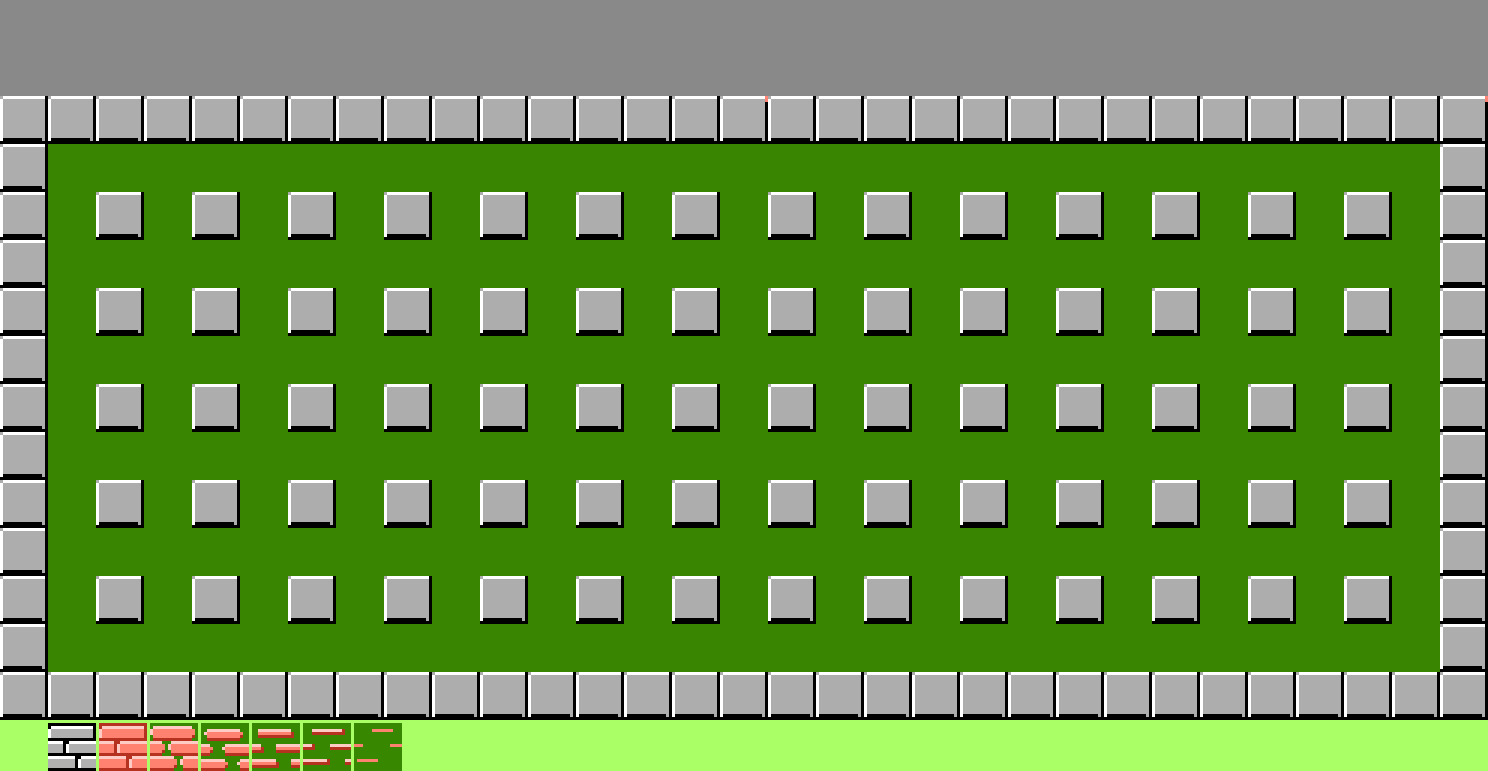
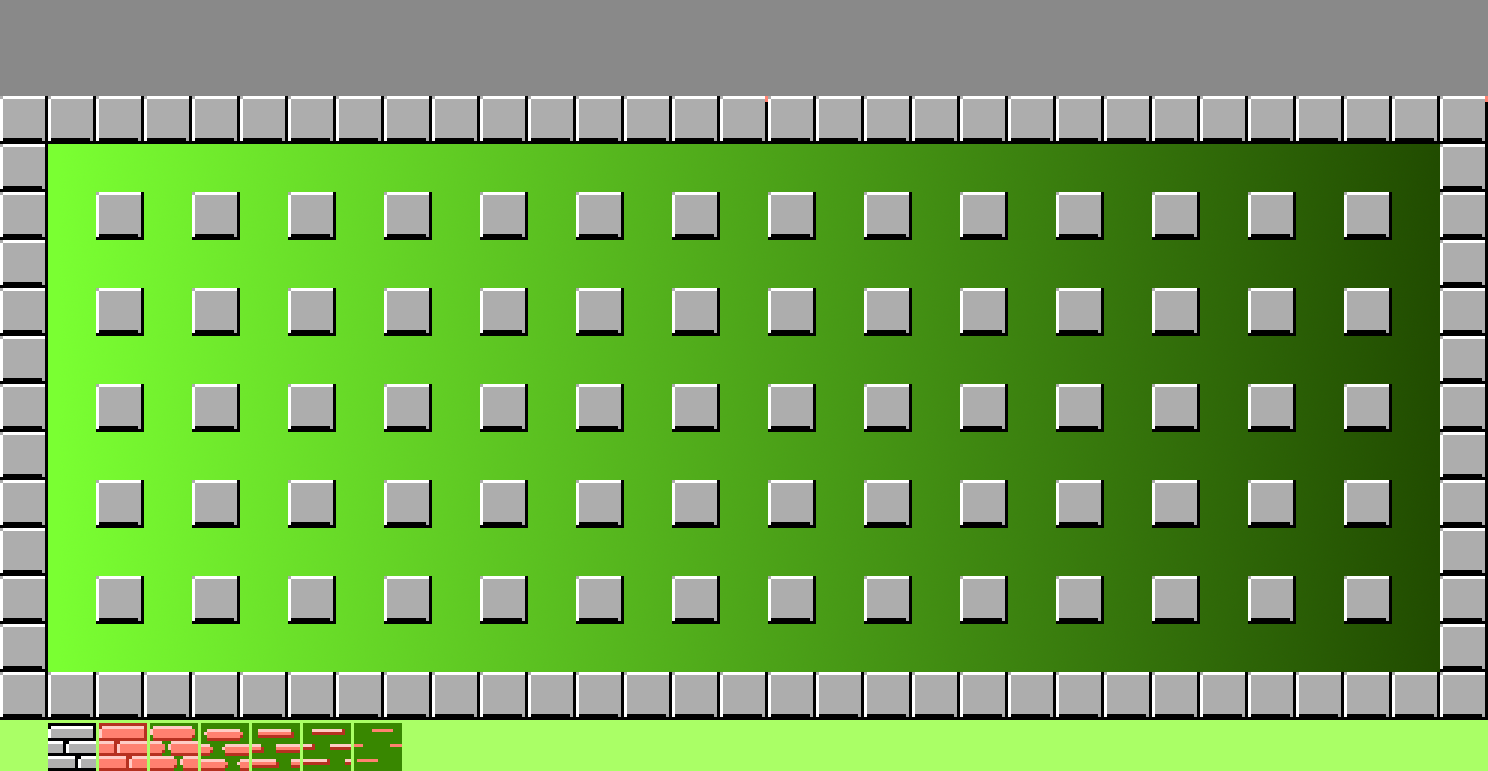
Created Split Screen

diff --git a/game.cpp b/game.cpp
@@ -11,7 +11,6 @@ Level level(420);
 
 Sprite background = Sprite(new Surface("bomber assets/background.png"), 1);
 
-
 char map[13][32] = {
 	{"###############################"},
 	{"#SS...........................#"},
@@ -28,9 +27,16 @@ char map[13][32] = {
 	{"###############################"},
 };
 
+Sprite leftScreen = Sprite(new Surface(SCRWIDTH / 2, SCRHEIGHT), 1);
+Sprite rightScreen = Sprite(new Surface(SCRWIDTH / 2, SCRHEIGHT), 1);
+Surface* leftSurface;
+Surface* rightSurface;
+
 
 void Game::Init()
 {
+
+	leftScreen.Draw(screen, 0, 0);
 
 	float tilesize = 48.f;
 	float offset = tilesize * 2;
@@ -39,24 +45,35 @@ void Game::Init()
 			char ch = map[r][c];
 			Vector2f pos = { c * tilesize , r * tilesize + offset };
 			switch (ch) {
-				//case '#': level.AddGameObject(new GameObject("bomber assets/Wall.png",pos)); break;
+			    //case '#': level.AddGameObject(new GameObject("bomber assets/Wall.png", pos)); break;
 				//case '.': level.AddGameObject(new GameObject("bomber assets/Enemy.png", pos)); break;
 				//case 'S': level.AddGameObject(new GameObject("bomber assets/Safe.png",pos)); break;
 			}
 		}
 	}
-	level.AddGameObject(new Player({ tilesize, tilesize + offset }));
 
-	level.Init(screenL);
+	level.AddGameObject(new Player({ tilesize, tilesize + offset }, 1));
+	level.AddGameObject(new Player({ tilesize * 20, tilesize + offset }, 2));
+
+	leftSurface = leftScreen.GetSurface();
+	rightSurface = rightScreen.GetSurface();
+
+	level.Init(leftSurface, rightSurface);
 }
 
 void Game::Tick(float deltatime)
 {
 	level.Update(deltatime / 1000);
 
-	screenL->Clear(0x000000);
+	screen->Clear(0x000000);
+	leftSurface->Clear(0x000000);
+	rightSurface->Clear(0x000000);
 
-	background.Draw(screenL, 0, 0);
+	background.Draw(leftSurface, 0 - level.cam1offset, 0);
+	background.Draw(rightSurface, 0 - level.cam2offset, 0);
 
 	level.Render();
+
+	leftScreen.Draw(screen, 0, 0);
+	rightScreen.Draw(screen, SCRWIDTH / 2, 0);
 }

diff --git a/template/Game/player.cpp b/template/Game/player.cpp
@@ -1,6 +1,7 @@
 #include "precomp.h"
 #include "player.h"
 #include "iostream"
+#include "level.h"
 
 
 Player::~Player()
@@ -18,32 +19,63 @@ void Player::Update()
 	Vector2f movement = { 0,0 };
 
 	//Up
-	if (GetAsyncKeyState(87) & 0x8000 || 
-		GetAsyncKeyState(38) & 0x8000 ) 
+	if (GetAsyncKeyState(87) & 0x8000 && player == 1 ||
+		GetAsyncKeyState(38) & 0x8000 && player == 2)
 	{ 
 		movement.y -= speed;
 	}
 
 	//Down
-	if (GetAsyncKeyState(83) & 0x8000 ||
-		GetAsyncKeyState(40) & 0x8000 )
+	if (GetAsyncKeyState(83) & 0x8000 && player == 1 ||
+		GetAsyncKeyState(40) & 0x8000 && player == 2)
 	{ 
 		movement.y += speed;
 	}
 
 	//Left
-	if (GetAsyncKeyState(65) & 0x8000 ||
-		GetAsyncKeyState(37) & 0x8000 )
+	if (GetAsyncKeyState(65) & 0x8000 && player == 1 ||
+		GetAsyncKeyState(37) & 0x8000 && player == 2)
 	{ 
 		movement.x -= speed;
 	}
 
 	//Right
-	if (GetAsyncKeyState(68) & 0x8000 || 
-		GetAsyncKeyState(39) & 0x8000 )
+	if (GetAsyncKeyState(68) & 0x8000 && player == 1 ||
+		GetAsyncKeyState(39) & 0x8000 && player == 2)
 	{ 
 		movement.x += speed;
 	}
 
+
 	position += movement * deltatime;
+
+	int tileSize = 48;
+
+
+	if (player == 1) {
+		if (position.x > SCRWIDTH / 4) {
+			level->cam1offset = position.x - SCRWIDTH / 4;
+		}
+		else {
+			level->cam1offset = 0;
+		}
+	}
+	else {
+		if (position.x + tileSize < MAPWIDTH - SCRWIDTH / 4) {
+
+			if (level->cam2offset - level->cam1offset > SCRWIDTH / 2 ||
+				level->cam2offset - level->cam1offset < 200) {
+				level->cam2offset = position.x + tileSize - SCRWIDTH / 4;
+			}
+		}
+		else {
+			level->cam2offset = MAPWIDTH - SCRWIDTH / 2;
+		}
+	}
+
+	if (level->cam2offset - level->cam1offset <= SCRWIDTH / 2) {
+		std::cout << "Merge screen" << std::endl;
+	}
+	//std::cout << level->cam2offset - level->cam1offset << std::endl;
+
 }

diff --git a/template/template.cpp b/template/template.cpp
@@ -137,10 +137,9 @@ int main()
 #endif
 	// initialize application
 	InitRenderTarget(SCRWIDTH, SCRHEIGHT);
-	Surface* screenL = new Surface(SCRWIDTH, SCRHEIGHT);
-	Surface* screenR = new Surface(SCRWIDTH, SCRHEIGHT);
+	Surface* screen = new Surface(SCRWIDTH, SCRHEIGHT);
 	app = new Game();
-	app->screenL = screenL;
+	app->screen = screen;
 	app->Init();
 	// done, enter main loop
 #if 0
@@ -340,7 +339,7 @@ int main()
 		// send the rendering result to the screen using OpenGL
 		if (frameNr++ > 1)
 		{
-			if (app->screenL) renderTarget->CopyFrom(app->screenL);
+			if (app->screen) renderTarget->CopyFrom(app->screen);
 			shader->Bind();
 			shader->SetInputTexture(0, "c", renderTarget);
 			DrawQuad();

diff --git a/template/Game/GameObject.cpp b/template/Game/GameObject.cpp
@@ -1,6 +1,7 @@
 #include "precomp.h"
 #include "GameObject.h"
 #include "iostream"
+#include "level.h"
 
 void GameObject::Update()
 {
@@ -9,6 +10,8 @@ void GameObject::Update()
 void GameObject::Render()
 {
 	if (sprite != nullptr) {
-		sprite->Draw(surface, position.x, position.y);
+		//Change pos based on offset camera
+		sprite->Draw(surfaceL, position.x - level->cam1offset, position.y);
+		sprite->Draw(surfaceR, position.x - level->cam2offset, position.y);
 	}
 }

diff --git a/template/surface.cpp b/template/surface.cpp
@@ -161,7 +161,8 @@ void Surface::CopyTo( Surface* d, int x, int y )
 		int srcheight = height;
 		int dstwidth = d->width;
 		int dstheight = d->height;
-		if ((srcwidth + x) > dstwidth) srcwidth = dstwidth - x;
+		if ((srcwidth 
+			+ x) > dstwidth) srcwidth = dstwidth - x;
 		if ((srcheight + y) > dstheight) srcheight = dstheight - y;
 		if (x < 0) src -= x, srcwidth += x, x = 0;
 		if (y < 0) src -= y * width, srcheight += y, y = 0;

diff --git a/template/Game/GameObject.h b/template/Game/GameObject.h
@@ -3,6 +3,8 @@
 #include "sprite.h"
 #include "iostream"
 
+class Level;
+
 class GameObject {
 public:
 	GameObject() = default;
@@ -26,8 +28,11 @@ public:
 	Vector2 tilePosition = Vector2(0, 0);
 	Vector2f position = Vector2f(0, 0);
 	
-	Surface* surface = nullptr;
+	Surface* surfaceL = nullptr;
+	Surface* surfaceR = nullptr;
 	Sprite* sprite = nullptr;
+
+	Level* level;
 	
 	float deltatime;
 }; 

diff --git a/template/Game/Level.cpp b/template/Game/Level.cpp
@@ -22,10 +22,12 @@ void Level::AddGameObject(GameObject* obj)
 	}
 }
 
-void Level::Init(Surface* surface)
+void Level::Init(Surface* surfaceL, Surface* surfaceR)
 {
 	for (int i = 0; i < count; i++) {
-		gameObjects[i]->surface = surface;
+		gameObjects[i]->surfaceL = surfaceL;
+		gameObjects[i]->surfaceR = surfaceR;
+		gameObjects[i]->level = this;
 		gameObjects[i]->Init();
 	}
 }

diff --git a/template/Game/player.h b/template/Game/player.h
@@ -6,7 +6,8 @@ class Player : public GameObject
 {
 public:
     Player() = default;
-    Player(Vector2f pos){
+    Player(Vector2f pos, int _player){
+        player = _player;
         position = pos;
     }
     ~Player();
@@ -14,6 +15,7 @@ public:
     void Init() override;
     void Update() override;
 
+    int player = 0;
     float speed = 100.f;
 
 private:

diff --git a/template/Game/Level.h b/template/Game/Level.h
@@ -8,12 +8,17 @@ public:
 	~Level();
 
 	void AddGameObject(GameObject* obj);
-	void Init(Surface* surface);
+	void Init(Surface* surfaceL, Surface* surfaceR);
 	void Update(float _deltatime);
 	void Render();
 
+
+	float cam1offset = 0;
+	float cam2offset = 0;
 private:
 	GameObject** gameObjects;
 	int maxObjects;
 	int count;
+
+
 };

diff --git a/template/precomp.h b/template/precomp.h
@@ -405,8 +405,7 @@ public:
 	virtual void MouseWheel( float y ) = 0;
 	virtual void KeyUp( int key ) = 0;
 	virtual void KeyDown( int key ) = 0;
-	Surface* screenL = 0;
-	Surface* screenR = 0;
+	Surface* screen = 0;
 };
 
 // EOF

diff --git a/template/common.h b/template/common.h
@@ -8,8 +8,8 @@
 #pragma once
 
 // default screen resolution
-//#define SCRWIDTH	744
-#define SCRWIDTH	1488
+#define SCRWIDTH	1200
+#define MAPWIDTH	1488
 #define SCRHEIGHT	720
 // #define FULLSCREEN
 
